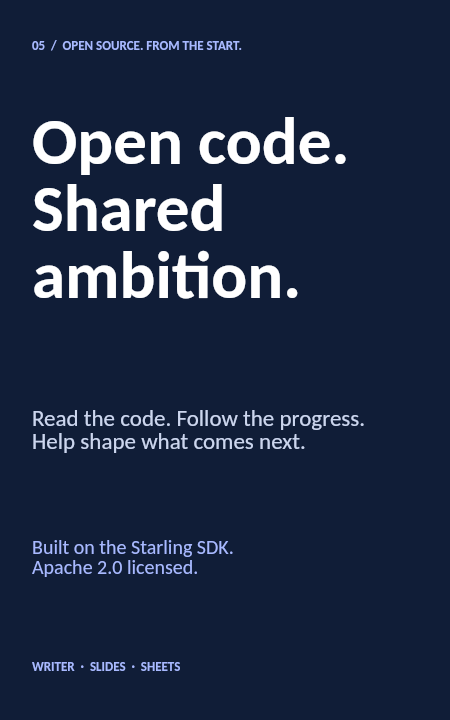
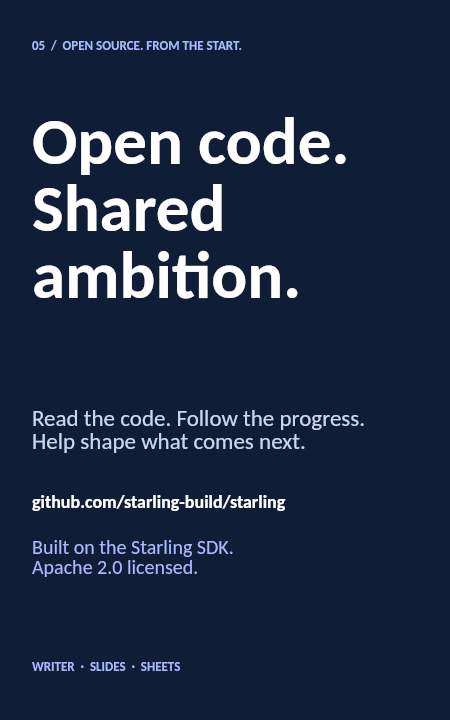
site: add the repository URL and GitHub action to the final slide

Changed region(s): [[0.0622, 0.6722, 0.6222, 0.7333]]

diff --git a/index.html b/index.html
@@ -10,7 +10,7 @@
   <meta property="og:title" content="Starling Office — big ideas start here">
   <meta property="og:description" content="Meet Writer, Slides, and Sheets. Documents, presentations, and spreadsheets, built in the open.">
   <meta property="og:type" content="website">
-  <meta property="og:image" content="https://openoffice.starling.build/slides/wide-1.png?v=437b6fef0f43a33a">
+  <meta property="og:image" content="https://openoffice.starling.build/slides/wide-1.png?v=532edc874d463e9b">
   <link rel="icon" href="favicon.svg" type="image/svg+xml">
   <link rel="stylesheet" href="styles.css?v=a1c2450fe311304c">
 </head>
@@ -22,7 +22,7 @@
   </header>
   <main id="presentation" aria-label="Starling Office presentation">
     <div class="stage" id="stage">
-      <picture id="poster"><source media="(max-aspect-ratio: 1/1)" srcset="slides/tall-1.png?v=437b6fef0f43a33a"><img src="slides/wide-1.png?v=437b6fef0f43a33a" alt="Big ideas. Start here. Writer, Slides, and Sheets. An open source office suite." fetchpriority="high" width="1280" height="720"></picture>
+      <picture id="poster"><source media="(max-aspect-ratio: 1/1)" srcset="slides/tall-1.png?v=532edc874d463e9b"><img src="slides/wide-1.png?v=532edc874d463e9b" alt="Big ideas. Start here. Writer, Slides, and Sheets. An open source office suite." fetchpriority="high" width="1280" height="720"></picture>
       <canvas id="starling" tabindex="0" role="img" aria-label="Starling Slides presentation" aria-describedby="slide-description"></canvas>
       <div class="load-status" id="load-status" role="status">Starting live slides…</div>
       <button id="retry" type="button" hidden>Retry live slides</button>
@@ -30,11 +30,11 @@
     <p class="sr-only" id="slide-description">Writer, Slides, and Sheets. An open source office suite. Documents, presentations, and spreadsheets, built in the open.</p>
   </main>
   <footer class="controls">
-    <div class="credit"><span class="slides-icon" aria-hidden="true">S</span><span>Presented with <strong>Starling Slides</strong><a id="download-deck" href="slides/landing-wide.pptx?v=437b6fef0f43a33a" download>Download the editable deck ↗</a></span></div>
+    <div class="credit"><span class="slides-icon" aria-hidden="true">S</span><span>Presented with <strong>Starling Slides</strong><a id="download-deck" href="slides/landing-wide.pptx?v=532edc874d463e9b" download>Download the editable deck ↗</a></span></div>
     <nav class="slide-navigation" aria-label="Presentation slides"><button id="previous" type="button" aria-label="Previous slide" disabled>←</button><div class="dots"><button type="button" data-slide="0" aria-label="Slide 1: Introduction" aria-current="step"></button><button type="button" data-slide="1" aria-label="Slide 2: Writer"></button><button type="button" data-slide="2" aria-label="Slide 3: Slides"></button><button type="button" data-slide="3" aria-label="Slide 4: Sheets"></button><button type="button" data-slide="4" aria-label="Slide 5: Platforms"></button><button type="button" data-slide="5" aria-label="Slide 6: Open source"></button></div><span id="position" aria-live="polite" aria-atomic="true">01 / 06</span><button id="next" type="button" aria-label="Next slide">→</button></nav>
     <a class="slide-action" id="slide-action" href="#2">Meet the apps <span aria-hidden="true">↗</span></a>
   </footer>
-  <noscript><div class="no-script">Browse the <a href="slides/landing-wide.pptx?v=437b6fef0f43a33a">presentation deck</a>, or <a href="https://writer.starling.build/">open Writer</a>. JavaScript enables live slides.</div></noscript>
-  <script type="module" src="slides.js?v=437b6fef0f43a33a"></script>
+  <noscript><div class="no-script">Browse the <a href="slides/landing-wide.pptx?v=532edc874d463e9b">presentation deck</a>, or <a href="https://writer.starling.build/">open Writer</a>. JavaScript enables live slides.</div></noscript>
+  <script type="module" src="slides.js?v=532edc874d463e9b"></script>
 </body>
 </html>

diff --git a/slides.js b/slides.js
@@ -4,7 +4,7 @@ const descriptions = [
   'Make your point. Slides brings themes, charts, animations, and speaker notes to your presentations. Open and save PPTX. This page runs on Starling Slides.',
   'Let the numbers tell the story. Sheets combines formulas, tables, sorting, and filters. Open and save XLSX and CSV.',
   'Your office. Everywhere. Documents, presentations, and spreadsheets, with a roadmap across macOS, Windows, Linux, iOS, Android, and the web.',
-  'Open code. Shared ambition. Writer, Slides, and Sheets. Built on Starling, licensed under Apache 2.0.',
+  'Open code. Shared ambition. Writer, Slides, and Sheets. Built on Starling, licensed under Apache 2.0. View the repository at github.com/starling-build/starling.',
 ];
 const lastSlide = descriptions.length - 1;
 // The published controller URL carries the content revision for the whole deck.
@@ -17,7 +17,7 @@ const actions = [
   ['Open Slides', 'https://slides.starling.build/'],
   ['Open Sheets', 'https://sheets.starling.build/'],
   ['Explore the apps', '#2'],
-  ['Explore the code', 'https://github.com/starling-build/starling'],
+  ['View on GitHub', 'https://github.com/starling-build/starling'],
 ];
 const canvas = document.getElementById('starling');
 const stage = document.getElementById('stage');
